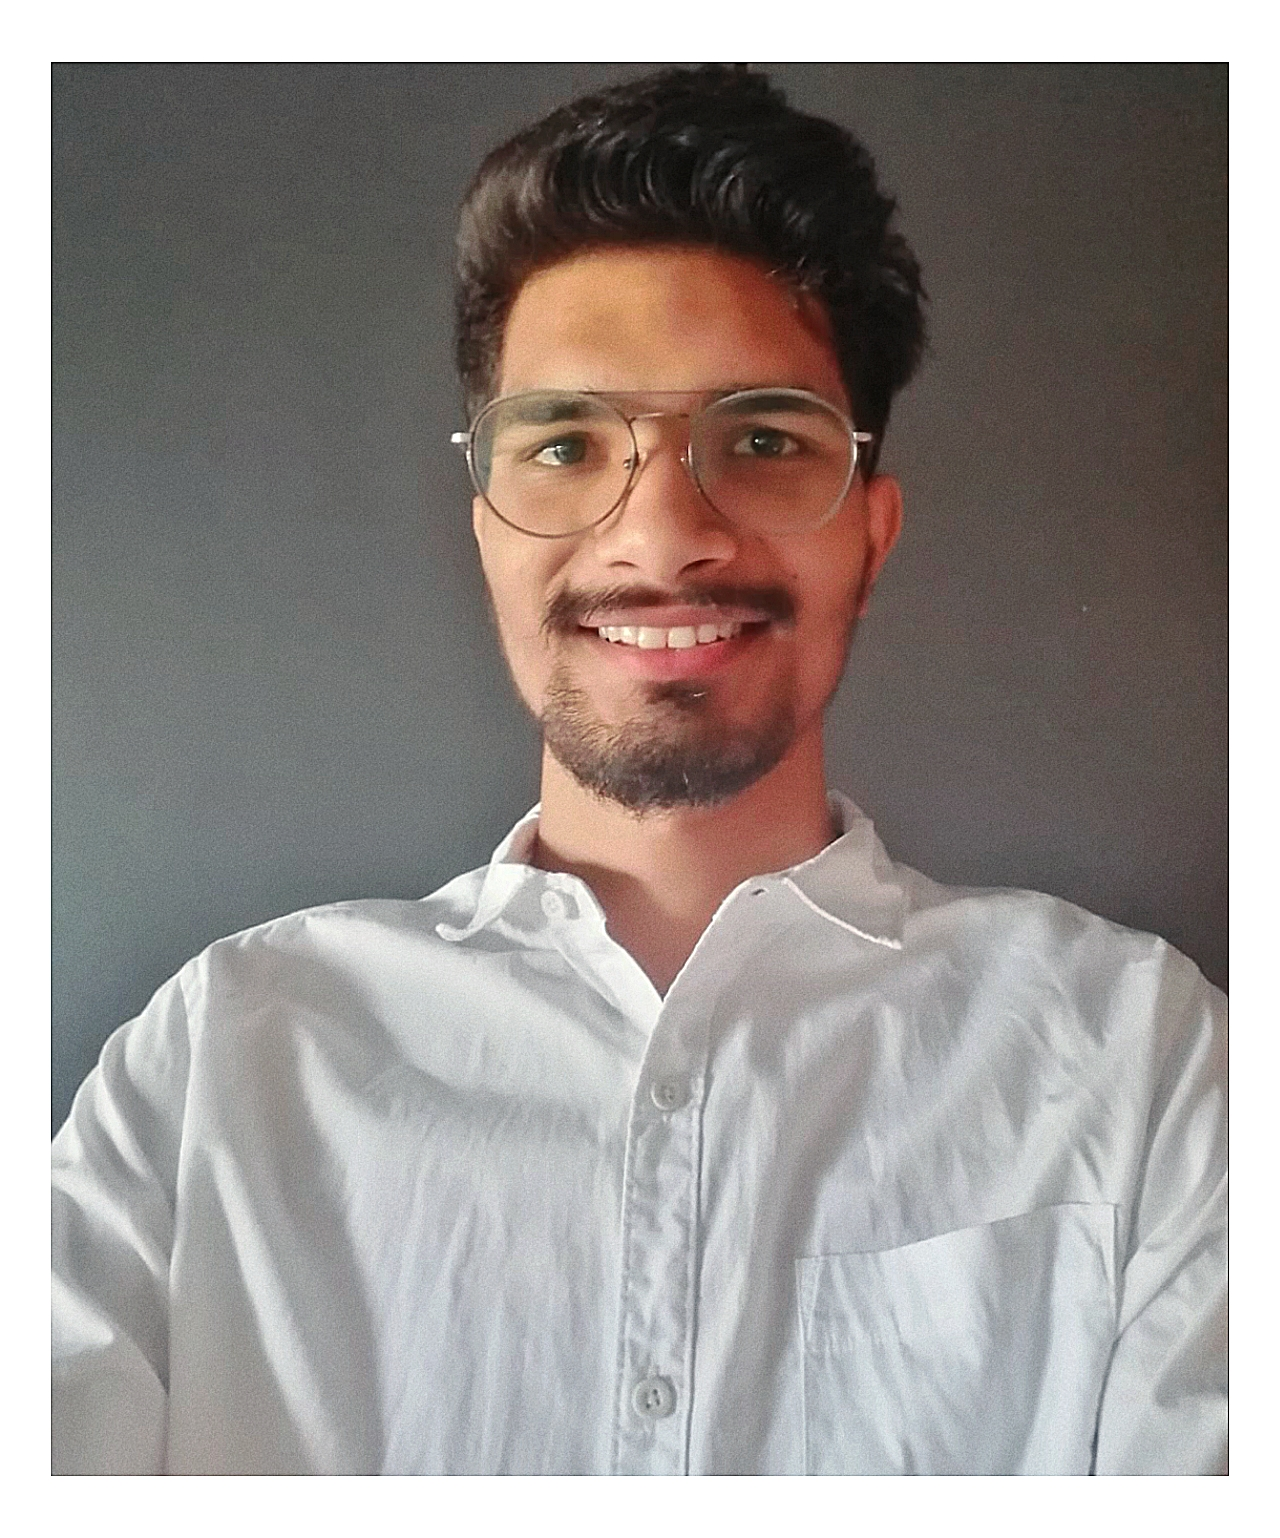
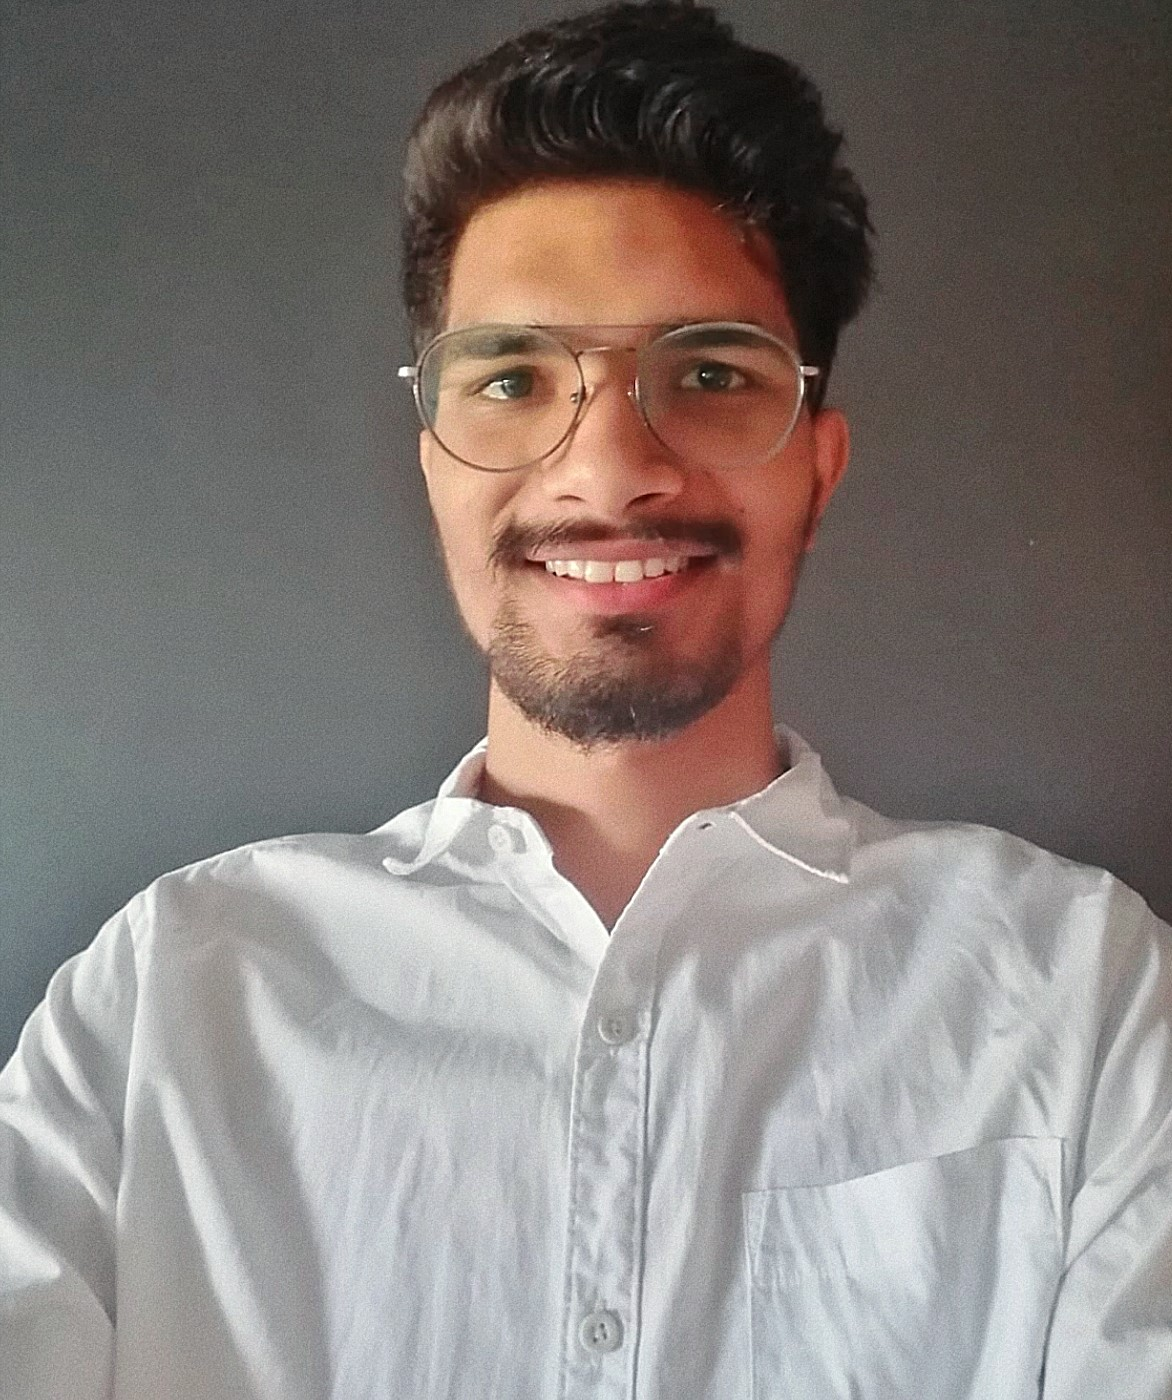
profile

diff --git a/src/components/About.jsx b/src/components/About.jsx
@@ -14,8 +14,8 @@ export default function About() {
                         <Button variant="outline" id="resume" _hover={{bg:"black", color:"white"}} >RESUME</Button>
                     </a>
                 </Box>
-                <Box display={{sm:"none", mg:"block", lg:"block"}} >
-                    <Img id="profile" display={{base:"none", sm:"none", mg:"block", lg:"block"}} src={require("../Resources/profile.jpg")} alt="Lokesh-choudhary-Profile.jpg" w="75%"  />
+                <Box display={{sm:"none", mg:"block", lg:"block"}} id="profile">
+                    <Img  display={{base:"none", sm:"none", mg:"block", lg:"block"}} src={require("../Resources/profile.jpg")} alt="Lokesh-choudhary-Profile.jpg" w="75%"  />
                 </Box>
             </Grid>
             <Grid justifyContent="center" templateColumns= {{sm:"1fr", md:"1fr",lg:"1fr 1fr 1fr"}} gap={5} px={40}>

diff --git a/src/App.css b/src/App.css
@@ -24,8 +24,12 @@
   border-radius: 0;
 }
 #profile{
+  background-color: #d6d6d6;
+  border-radius: 50%;
+}
+#profile img{
   display: block;
-  margin: auto;
+  margin: 40px auto;
 }
 
 .heading {
